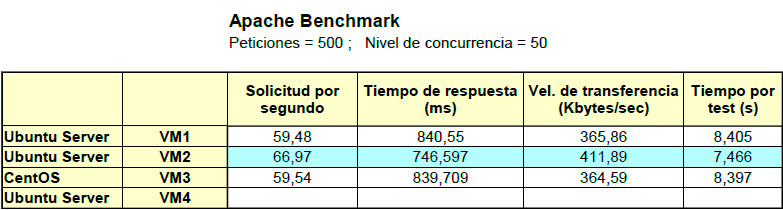
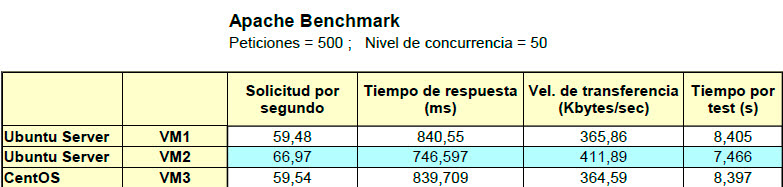
formato doc

diff --git a/Doc.md b/Doc.md
@@ -130,9 +130,6 @@ y en la máquina VM2-Ubuntu-Server
 	SO: CentOS release 6.3 (Final),	Kernel: Linux centoos 2.6.32-279.14.1.el6.openlogic.x86_64
 	Núcleos del procesador: 1		RAM: 1,75GB
 
-#### VM4-Ubuntu-Server -> Montada con VirtualBox 
-	SO: Ubuntu Server 12.04LTS,		Kernel: 3.8.0-29-generic
-	Núcleos del procesador: 1		RAM: 1,75GB
 
 
 ##Comparaciones.
